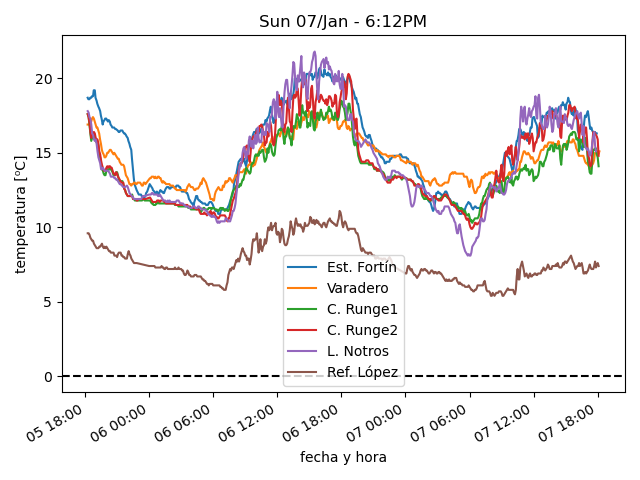
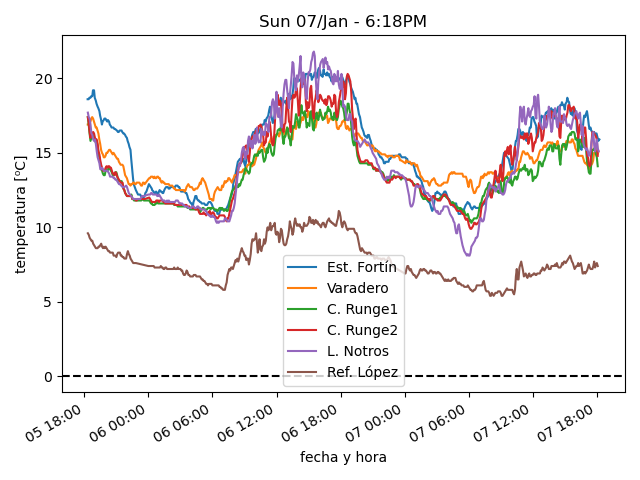
actualiza datos

diff --git a/estaciones/estacion1.html b/estaciones/estacion1.html
@@ -18,22 +18,22 @@
     </tr>
     <tr>
      <td class="stats_data">
-      5:54PM
+      6:14PM
      </td>
     </tr>
     <tr>
      <td class="stats_data">
-      16.3
+      15.9
      </td>
     </tr>
     <tr>
      <td class="stats_data">
-      5.3
+      5.4
      </td>
     </tr>
     <tr>
      <td class="stats_data">
-      48.0
+      49.7
      </td>
     </tr>
     <tr>
@@ -43,7 +43,7 @@
     </tr>
     <tr>
      <td class="stats_data">
-      16.0/33.3 WNW
+      27.3/38.6 W
      </td>
     </tr>
     <tr>
@@ -53,12 +53,12 @@
     </tr>
     <tr>
      <td class="stats_data">
-      2.8
+      2.2
      </td>
     </tr>
     <tr>
      <td class="stats_data">
-      454.0
+      438.0
      </td>
     </tr>
    </tbody>

diff --git a/estaciones/estacion5.html b/estaciones/estacion5.html
@@ -18,7 +18,7 @@
     </tr>
     <tr>
      <td class="stats_data">
-      5:50PM
+      6:10PM
      </td>
     </tr>
     <tr>
@@ -28,17 +28,17 @@
     </tr>
     <tr>
      <td class="stats_data">
-      7.3
+      6.8
      </td>
     </tr>
     <tr>
      <td class="stats_data">
-      60.0
+      58.0
      </td>
     </tr>
     <tr>
      <td class="stats_data">
-      1013.0
+      1013.07
      </td>
     </tr>
     <tr>
